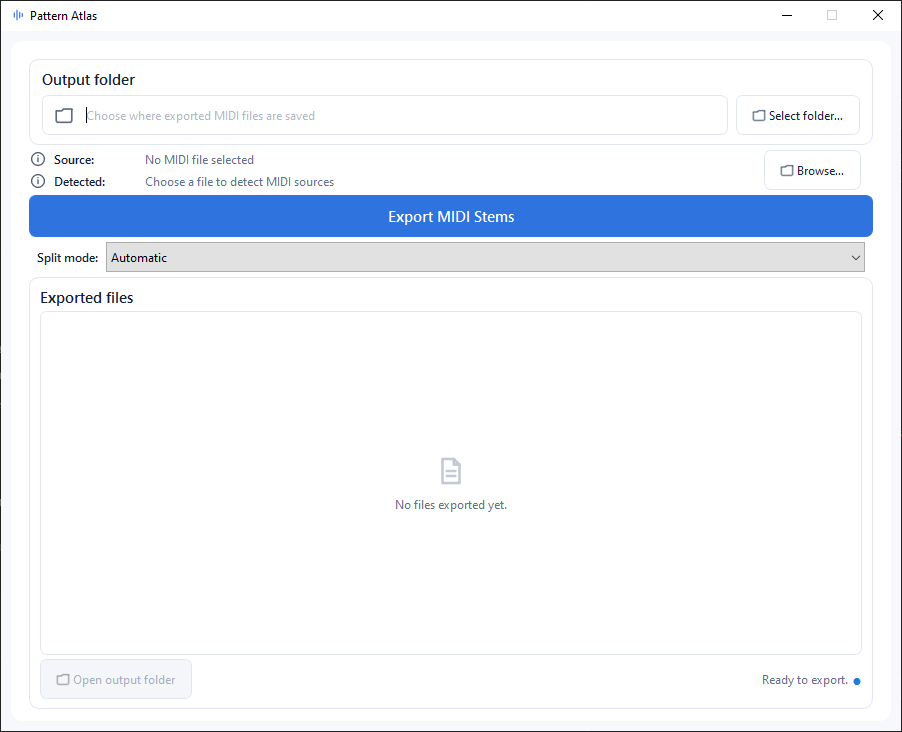
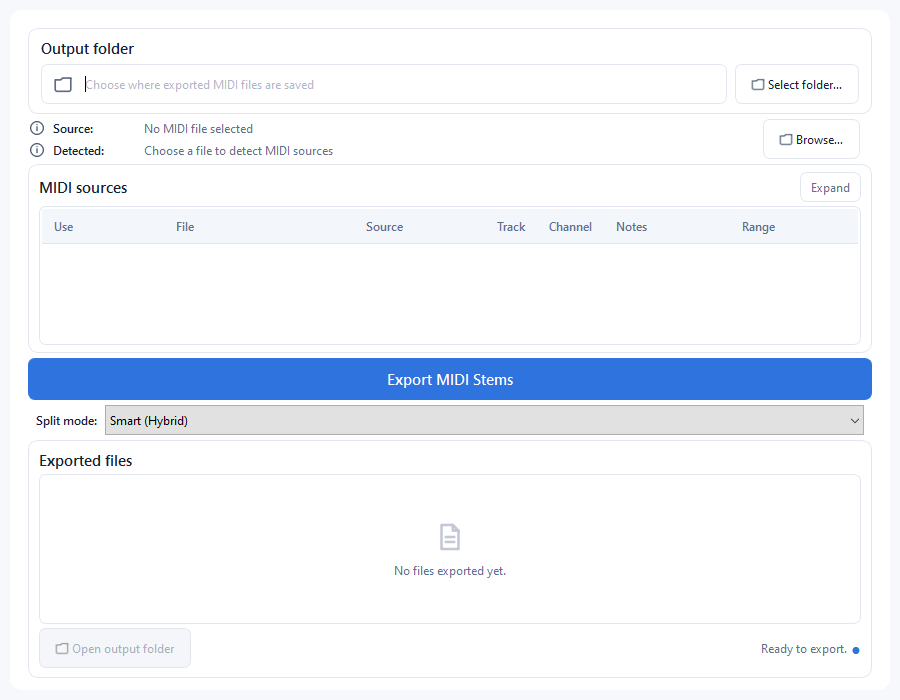
feat: add smart hybrid MIDI splitting
Keep simple tracks intact and split mixed-channel tracks without merging separate tracks.

diff --git a/src/fl_midi_batch_exporter/core/analyzer.py b/src/fl_midi_batch_exporter/core/analyzer.py
@@ -8,7 +8,7 @@ from .reader import ReadMidiFile
 
 
 def analyze_midi(read: ReadMidiFile, mode: SplitMode = SplitMode.AUTO) -> MidiProjectAnalysis:
-    """Identify a conservative track- or channel-based split for *read*."""
+    """Identify exportable MIDI sources using the requested split strategy."""
     musical_tracks = tuple(index for index, track in enumerate(read.tracks) if has_note_on(track))
     strategy = resolve_strategy(mode, musical_tracks)
     sources, source_events = detect_sources(read.tracks, strategy)
@@ -27,10 +27,10 @@ def has_note_on(events: Iterable[TimedMidiEvent]) -> bool:
 
 
 def resolve_strategy(mode: SplitMode, musical_tracks: tuple[int, ...]) -> SplitMode:
-    """Choose tracks only when AUTO finds notes in more than one track."""
-    if mode is not SplitMode.AUTO:
-        return mode
-    return SplitMode.TRACK if len(musical_tracks) > 1 else SplitMode.CHANNEL
+    """Resolve the legacy AUTO mode to the Smart hybrid strategy."""
+    if mode is SplitMode.AUTO:
+        return SplitMode.SMART
+    return mode
 
 
 def global_events(tracks: tuple[tuple[TimedMidiEvent, ...], ...]) -> tuple[TimedMidiEvent, ...]:
@@ -57,13 +57,22 @@ def detect_sources(
     """Build sources and their non-conductor event streams for *strategy*."""
     if strategy is SplitMode.TRACK:
         candidates = _track_candidates(tracks)
-    else:
+    elif strategy is SplitMode.CHANNEL:
         candidates = _channel_candidates(tracks)
+    else:
+        candidates = _hybrid_candidates(tracks)
 
     sources: list[MidiSource] = []
     source_events: dict[str, tuple[TimedMidiEvent, ...]] = {}
     for track_index, port, channel, events in candidates:
-        source = _make_source(track_index, port, channel, events, tracks[track_index])
+        source = _make_source(
+            track_index,
+            port,
+            channel,
+            events,
+            tracks[track_index],
+            include_channel_name=strategy is SplitMode.SMART and channel is not None,
+        )
         sources.append(source)
         source_events[source.id] = events
     return tuple(sources), source_events
@@ -108,6 +117,38 @@ def _channel_candidates(
     return tuple(candidates)
 
 
+def _hybrid_candidates(
+    tracks: tuple[tuple[TimedMidiEvent, ...], ...]
+) -> tuple[tuple[int, int | None, int | None, tuple[TimedMidiEvent, ...]], ...]:
+    """Keep simple tracks intact and split tracks containing multiple channels."""
+    candidates = []
+    for track_index, track in enumerate(tracks):
+        if not has_note_on(track):
+            continue
+        identities = {
+            (event.port, event.message.channel)
+            for event in track
+            if is_note_on(event)
+        }
+        if len(identities) <= 1:
+            events = tuple(event for event in track if not is_global_event(event))
+            ports = {event.port for event in events if is_channel_event(event)}
+            port = next(iter(ports)) if len(ports) == 1 else None
+            candidates.append((track_index, port, None, events))
+            continue
+        for port, channel in sorted(
+            identities,
+            key=lambda item: (item[0] is not None, item[0] or 0, item[1]),
+        ):
+            events = tuple(
+                event
+                for event in track
+                if _belongs_to_channel_source(event, port, channel)
+            )
+            candidates.append((track_index, port, channel, events))
+    return tuple(candidates)
+
+
 def _belongs_to_channel_source(event: TimedMidiEvent, port: int | None, channel: int) -> bool:
     if is_global_event(event):
         return False
@@ -136,8 +177,9 @@ def _make_source(
     channel: int | None,
     events: tuple[TimedMidiEvent, ...],
     track: tuple[TimedMidiEvent, ...],
+    include_channel_name: bool = False,
 ) -> MidiSource:
-    name = _source_name(track, track_index, channel)
+    name = _source_name(track, track_index, channel, include_channel_name)
     source_id = f"t{track_index}-p{port if port is not None else 'none'}-c{channel if channel is not None else 'all'}"
     note_events = tuple(event for event in events if is_note_on(event))
     note_values = tuple(event.message.note for event in note_events)
@@ -156,11 +198,19 @@ def _make_source(
     )
 
 
-def _source_name(track: tuple[TimedMidiEvent, ...], track_index: int, channel: int | None) -> str:
+def _source_name(
+    track: tuple[TimedMidiEvent, ...],
+    track_index: int,
+    channel: int | None,
+    include_channel_name: bool = False,
+) -> str:
     for message_type in ("track_name", "instrument_name"):
         for event in track:
             if event.message.type == message_type and getattr(event.message, "name", ""):
-                return event.message.name
+                name = event.message.name
+                if include_channel_name and channel is not None:
+                    return f"{name} - Ch {channel + 1}"
+                return name
     if channel is not None:
         return f"Channel {channel + 1}"
     return f"Track {track_index + 1}"

diff --git a/tests/test_workflows.py b/tests/test_workflows.py
@@ -46,6 +46,64 @@ def test_auto_uses_channels_when_one_track_has_multiple_channels(
     assert [source.channel for source in analysis.sources] == [0, 9]
 
 
+def test_smart_split_keeps_single_channel_tracks_and_splits_mixed_tracks(
+    midi_file: Callable[..., Path],
+) -> None:
+    path = midi_file(
+        "hybrid.mid",
+        [
+            [
+                mido.MetaMessage("track_name", name="Piano"),
+                mido.Message("note_on", channel=0, note=60, velocity=100),
+            ],
+            [
+                mido.MetaMessage("track_name", name="Layer"),
+                mido.Message("note_on", channel=1, note=64, velocity=100),
+                mido.Message("note_on", channel=2, note=67, velocity=100),
+            ],
+            [
+                mido.MetaMessage("track_name", name="Drums"),
+                mido.Message("note_on", channel=9, note=36, velocity=100),
+            ],
+        ],
+    )
+
+    analysis = analyze_midi(read_midi(path), SplitMode.SMART)
+
+    assert [
+        (source.track_index, source.channel, source.name)
+        for source in analysis.sources
+    ] == [
+        (0, None, "Piano"),
+        (1, 1, "Layer - Ch 2"),
+        (1, 2, "Layer - Ch 3"),
+        (2, None, "Drums"),
+    ]
+
+
+def test_smart_split_keeps_same_channel_separate_across_tracks(
+    midi_file: Callable[..., Path],
+) -> None:
+    path = midi_file(
+        "hybrid-same-channel.mid",
+        [
+            [mido.Message("note_on", channel=0, note=60, velocity=100)],
+            [
+                mido.Message("note_on", channel=0, note=48, velocity=100),
+                mido.Message("note_on", channel=1, note=52, velocity=100),
+            ],
+        ],
+    )
+
+    analysis = analyze_midi(read_midi(path), SplitMode.SMART)
+
+    assert [(source.track_index, source.channel) for source in analysis.sources] == [
+        (0, None),
+        (1, 0),
+        (1, 1),
+    ]
+
+
 def test_channel_split_keeps_same_channel_on_different_tracks_separate(
     midi_file: Callable[..., Path],
 ) -> None:

diff --git a/tests/test_gui_smoke.py b/tests/test_gui_smoke.py
@@ -8,7 +8,7 @@ from PySide6.QtCore import Qt
 from PySide6.QtWidgets import QApplication
 
 from fl_midi_batch_exporter.application import MidiExportService
-from fl_midi_batch_exporter.core.models import MidiExportError
+from fl_midi_batch_exporter.core.models import MidiExportError, SplitMode
 from fl_midi_batch_exporter.gui.main_window import MainWindow
 
 
@@ -23,6 +23,8 @@ def test_main_window_preserves_the_current_layout_contract() -> None:
     assert window.export_button.text() == "Export MIDI Stems"
     assert window.export_button.isEnabled() is False
     assert window.mode_selector.count() == 3
+    assert window.mode_selector.itemText(0) == "Smart (Hybrid)"
+    assert window.mode_selector.itemData(0) == SplitMode.SMART.value
 
     window.close()
     app.processEvents()
@@ -75,6 +77,21 @@ def test_failed_export_removes_partial_rows_from_the_result_list() -> None:
     window._worker_failed("write failed", MidiExportError("write failed"), False)
 
     assert window.result_list.count() == 0
+    window.close()
+    app.processEvents()
+
+
+def test_split_mode_selector_returns_the_selected_mode() -> None:
+    app = QApplication.instance() or QApplication([])
+    window = MainWindow(MidiExportService())
+
+    window.mode_selector.setCurrentIndex(1)
+    assert window._selected_mode() is SplitMode.TRACK
+    window.mode_selector.setCurrentIndex(2)
+    assert window._selected_mode() is SplitMode.CHANNEL
+    window.mode_selector.setCurrentIndex(0)
+    assert window._selected_mode() is SplitMode.SMART
+
     window.close()
     app.processEvents()
 

diff --git a/src/fl_midi_batch_exporter/gui/main_window.py b/src/fl_midi_batch_exporter/gui/main_window.py
@@ -256,7 +256,7 @@ class MainWindow(QMainWindow):
         layout.addWidget(source_card)
 
         self.mode_selector = QComboBox()
-        self.mode_selector.addItem("Automatic", SplitMode.AUTO)
+        self.mode_selector.addItem("Smart (Hybrid)", SplitMode.SMART)
         self.mode_selector.addItem("By track", SplitMode.TRACK)
         self.mode_selector.addItem("By MIDI channel", SplitMode.CHANNEL)
         self.mode_selector.setMinimumHeight(30)
@@ -778,7 +778,14 @@ class MainWindow(QMainWindow):
 
     def _selected_mode(self) -> SplitMode:
         mode = self.mode_selector.currentData()
-        return mode if isinstance(mode, SplitMode) else SplitMode.AUTO
+        if isinstance(mode, SplitMode):
+            return mode
+        if isinstance(mode, str):
+            try:
+                return SplitMode(mode)
+            except ValueError:
+                pass
+        return SplitMode.SMART
 
     @staticmethod
     def _is_valid_midi_file(path: Path) -> bool:

diff --git a/src/fl_midi_batch_exporter/cli.py b/src/fl_midi_batch_exporter/cli.py
@@ -23,8 +23,8 @@ def build_parser() -> argparse.ArgumentParser:
     parser.add_argument(
         "--mode",
         choices=tuple(mode.value for mode in SplitMode),
-        default=SplitMode.AUTO.value,
-        help="How to split the MIDI file (default: auto)",
+        default=SplitMode.SMART.value,
+        help="How to split the MIDI file (default: smart)",
     )
     return parser
 

diff --git a/src/fl_midi_batch_exporter/core/models.py b/src/fl_midi_batch_exporter/core/models.py
@@ -11,6 +11,7 @@ import mido
 
 class SplitMode(StrEnum):
     AUTO = "auto"
+    SMART = "smart"
     TRACK = "track"
     CHANNEL = "channel"
 

diff --git a/README.md b/README.md
@@ -8,7 +8,7 @@ See the [changelog](CHANGELOG.md) for release updates.
 
 ## Features
 
-- Split Type 0 and Type 1 `.mid` and `.midi` files by track, MIDI channel, or automatically
+- Split Type 0 and Type 1 `.mid` and `.midi` files with Smart (Hybrid), track, or MIDI channel modes
 - Process multiple MIDI files or folders recursively in one batch
 - Preview, expand, select, and rename detected MIDI sources before export
 - Preserve notes, timing, tempo, and MIDI metadata
@@ -52,7 +52,7 @@ importing it.
 
 ## Split modes
 
-- **Automatic** — chooses track or channel separation based on the file structure
+- **Smart (Hybrid)** — keeps single-channel tracks together and splits multi-channel tracks by channel
 - **By Track** — creates one stem per MIDI track
 - **By MIDI Channel** — separates the channels found inside each source track and MIDI port
 
@@ -68,9 +68,9 @@ Older builds remain available on the [Releases](https://github.com/viy2tek/Patte
 ## CLI
 
 ```powershell
-midi-exporter song.mid -o output --mode auto
-midi-exporter song-01.mid song-02.mid -o output --mode auto
-midi-exporter .\midi-folder -o output --mode auto
+midi-exporter song.mid -o output --mode smart
+midi-exporter song-01.mid song-02.mid -o output --mode smart
+midi-exporter .\midi-folder -o output --mode smart
 ```
 
 ## Development

diff --git a/CHANGELOG.md b/CHANGELOG.md
@@ -2,6 +2,17 @@
 
 All notable changes to Pattern Atlas are documented here.
 
+## [0.3.1] - 2026-09-06
+
+### Added
+
+- Added Smart (Hybrid) splitting: single-channel tracks stay intact while multi-channel tracks split by channel.
+
+### Changed
+
+- Renamed the default interface mode to Smart (Hybrid); the CLI keeps `--mode auto` as a compatibility alias.
+- Updated the README interface screenshot to match the current Smart (Hybrid) layout.
+
 ## [0.3.0] - 2026-09-06
 
 ### Added
@@ -24,4 +35,3 @@ All notable changes to Pattern Atlas are documented here.
 
 - Improved source naming and note-range visibility in the interface.
 - Added regression coverage for source preview, filtering, renaming, expansion, and layout bounds.
-
